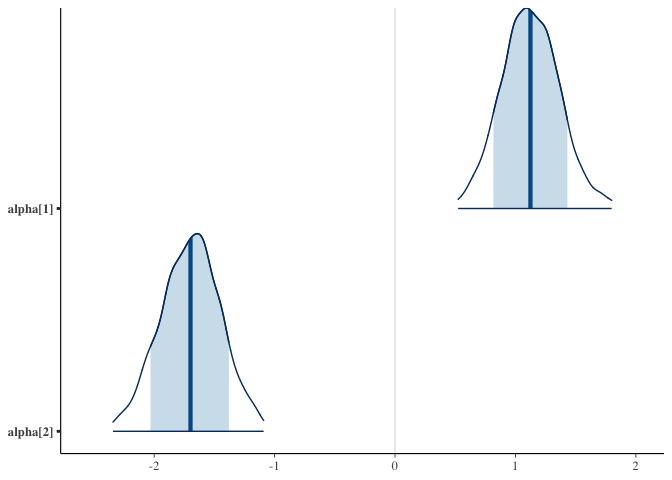
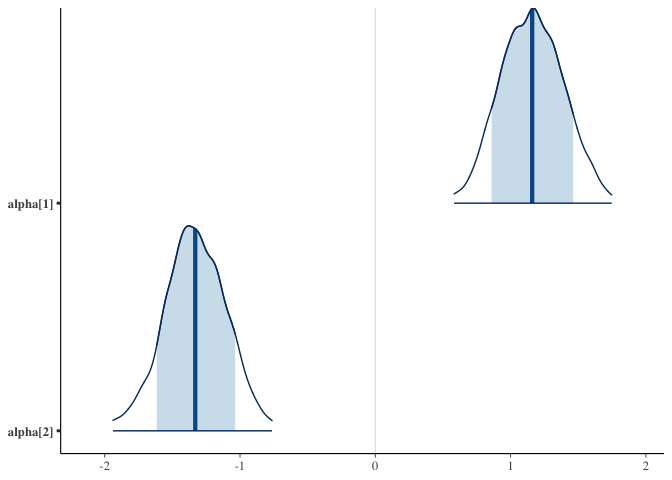
getting pkgdown working

diff --git a/README.md b/README.md
@@ -76,8 +76,8 @@ simple_model <- titanic::age_gender_stan(
     ## 
     ## SAMPLING FOR MODEL 'age_gender_model' NOW (CHAIN 1).
     ## Chain 1: 
-    ## Chain 1: Gradient evaluation took 8.4e-05 seconds
-    ## Chain 1: 1000 transitions using 10 leapfrog steps per transition would take 0.84 seconds.
+    ## Chain 1: Gradient evaluation took 9.4e-05 seconds
+    ## Chain 1: 1000 transitions using 10 leapfrog steps per transition would take 0.94 seconds.
     ## Chain 1: Adjust your expectations accordingly!
     ## Chain 1: 
     ## Chain 1: 
@@ -94,15 +94,15 @@ simple_model <- titanic::age_gender_stan(
     ## Chain 1: Iteration: 1800 / 2000 [ 90%]  (Sampling)
     ## Chain 1: Iteration: 2000 / 2000 [100%]  (Sampling)
     ## Chain 1: 
-    ## Chain 1:  Elapsed Time: 1.36134 seconds (Warm-up)
-    ## Chain 1:                0.564277 seconds (Sampling)
-    ## Chain 1:                1.92562 seconds (Total)
+    ## Chain 1:  Elapsed Time: 1.29221 seconds (Warm-up)
+    ## Chain 1:                0.653079 seconds (Sampling)
+    ## Chain 1:                1.94529 seconds (Total)
     ## Chain 1: 
     ## 
     ## SAMPLING FOR MODEL 'age_gender_model' NOW (CHAIN 2).
     ## Chain 2: 
-    ## Chain 2: Gradient evaluation took 5.2e-05 seconds
-    ## Chain 2: 1000 transitions using 10 leapfrog steps per transition would take 0.52 seconds.
+    ## Chain 2: Gradient evaluation took 5.8e-05 seconds
+    ## Chain 2: 1000 transitions using 10 leapfrog steps per transition would take 0.58 seconds.
     ## Chain 2: Adjust your expectations accordingly!
     ## Chain 2: 
     ## Chain 2: 
@@ -119,15 +119,15 @@ simple_model <- titanic::age_gender_stan(
     ## Chain 2: Iteration: 1800 / 2000 [ 90%]  (Sampling)
     ## Chain 2: Iteration: 2000 / 2000 [100%]  (Sampling)
     ## Chain 2: 
-    ## Chain 2:  Elapsed Time: 1.33221 seconds (Warm-up)
-    ## Chain 2:                0.595502 seconds (Sampling)
-    ## Chain 2:                1.92771 seconds (Total)
+    ## Chain 2:  Elapsed Time: 1.51446 seconds (Warm-up)
+    ## Chain 2:                0.541103 seconds (Sampling)
+    ## Chain 2:                2.05557 seconds (Total)
     ## Chain 2: 
     ## 
     ## SAMPLING FOR MODEL 'age_gender_model' NOW (CHAIN 3).
     ## Chain 3: 
-    ## Chain 3: Gradient evaluation took 5.3e-05 seconds
-    ## Chain 3: 1000 transitions using 10 leapfrog steps per transition would take 0.53 seconds.
+    ## Chain 3: Gradient evaluation took 5.2e-05 seconds
+    ## Chain 3: 1000 transitions using 10 leapfrog steps per transition would take 0.52 seconds.
     ## Chain 3: Adjust your expectations accordingly!
     ## Chain 3: 
     ## Chain 3: 
@@ -144,15 +144,15 @@ simple_model <- titanic::age_gender_stan(
     ## Chain 3: Iteration: 1800 / 2000 [ 90%]  (Sampling)
     ## Chain 3: Iteration: 2000 / 2000 [100%]  (Sampling)
     ## Chain 3: 
-    ## Chain 3:  Elapsed Time: 1.03686 seconds (Warm-up)
-    ## Chain 3:                0.532769 seconds (Sampling)
-    ## Chain 3:                1.56963 seconds (Total)
+    ## Chain 3:  Elapsed Time: 1.20392 seconds (Warm-up)
+    ## Chain 3:                0.551656 seconds (Sampling)
+    ## Chain 3:                1.75558 seconds (Total)
     ## Chain 3: 
     ## 
     ## SAMPLING FOR MODEL 'age_gender_model' NOW (CHAIN 4).
     ## Chain 4: 
-    ## Chain 4: Gradient evaluation took 6.3e-05 seconds
-    ## Chain 4: 1000 transitions using 10 leapfrog steps per transition would take 0.63 seconds.
+    ## Chain 4: Gradient evaluation took 6.2e-05 seconds
+    ## Chain 4: 1000 transitions using 10 leapfrog steps per transition would take 0.62 seconds.
     ## Chain 4: Adjust your expectations accordingly!
     ## Chain 4: 
     ## Chain 4: 
@@ -169,9 +169,9 @@ simple_model <- titanic::age_gender_stan(
     ## Chain 4: Iteration: 1800 / 2000 [ 90%]  (Sampling)
     ## Chain 4: Iteration: 2000 / 2000 [100%]  (Sampling)
     ## Chain 4: 
-    ## Chain 4:  Elapsed Time: 1.51532 seconds (Warm-up)
-    ## Chain 4:                0.555943 seconds (Sampling)
-    ## Chain 4:                2.07126 seconds (Total)
+    ## Chain 4:  Elapsed Time: 1.21723 seconds (Warm-up)
+    ## Chain 4:                0.591349 seconds (Sampling)
+    ## Chain 4:                1.80858 seconds (Total)
     ## Chain 4:
 
 The model estimates an intercept for each `Sex` separately but shares
@@ -187,11 +187,11 @@ print(simple_model, pars=c('alpha','beta'))
     ## post-warmup draws per chain=1000, total post-warmup draws=4000.
     ## 
     ##           mean se_mean   sd  2.5%   25%   50%   75% 97.5% n_eff Rhat
-    ## alpha[1]  1.12    0.01 0.25  0.65  0.96  1.12  1.29  1.62   942    1
-    ## alpha[2] -1.70    0.01 0.25 -2.21 -1.87 -1.69 -1.53 -1.20   979    1
-    ## beta      0.00    0.00 0.01 -0.01  0.00  0.00  0.01  0.02   948    1
+    ## alpha[1]  1.16    0.01 0.23  0.72  1.00  1.16  1.32  1.61   961    1
+    ## alpha[2] -1.33    0.01 0.23 -1.80 -1.48 -1.33 -1.17 -0.89   940    1
+    ## beta     -0.01    0.00 0.01 -0.02 -0.01 -0.01  0.00  0.01   906    1
     ## 
-    ## Samples were drawn using NUTS(diag_e) at Mon Oct  5 18:17:38 2020.
+    ## Samples were drawn using NUTS(diag_e) at Sat Oct 10 12:28:42 2020.
     ## For each parameter, n_eff is a crude measure of effective sample size,
     ## and Rhat is the potential scale reduction factor on split chains (at 
     ## convergence, Rhat=1).
@@ -234,9 +234,9 @@ and for the Kaggle challenge we care about accuracy.
 mean(apply(samp$y_new, 2, median) %>% round(0) == train[test_idx,'Survived'])
 ```
 
-    ## [1] 0.6927374
+    ## [1] 0.7932961
 
-Accuracy against a test set is about 0.6927374 percent. There seems to
+Accuracy against a test set is about 0.7932961 percent. There seems to
 be more to the story we need to consider to improve accuracy to a
 reasonable level.
 
@@ -274,15 +274,15 @@ predict_model <- titanic::age_gender_stan(age=train[train_idx,'Age'],
     ## Chain 1: Iteration: 1800 / 2000 [ 90%]  (Sampling)
     ## Chain 1: Iteration: 2000 / 2000 [100%]  (Sampling)
     ## Chain 1: 
-    ## Chain 1:  Elapsed Time: 1.26501 seconds (Warm-up)
-    ## Chain 1:                0.580057 seconds (Sampling)
-    ## Chain 1:                1.84507 seconds (Total)
+    ## Chain 1:  Elapsed Time: 1.34865 seconds (Warm-up)
+    ## Chain 1:                0.664375 seconds (Sampling)
+    ## Chain 1:                2.01302 seconds (Total)
     ## Chain 1: 
     ## 
     ## SAMPLING FOR MODEL 'age_gender_model' NOW (CHAIN 2).
     ## Chain 2: 
-    ## Chain 2: Gradient evaluation took 5.2e-05 seconds
-    ## Chain 2: 1000 transitions using 10 leapfrog steps per transition would take 0.52 seconds.
+    ## Chain 2: Gradient evaluation took 5.3e-05 seconds
+    ## Chain 2: 1000 transitions using 10 leapfrog steps per transition would take 0.53 seconds.
     ## Chain 2: Adjust your expectations accordingly!
     ## Chain 2: 
     ## Chain 2: 
@@ -299,15 +299,15 @@ predict_model <- titanic::age_gender_stan(age=train[train_idx,'Age'],
     ## Chain 2: Iteration: 1800 / 2000 [ 90%]  (Sampling)
     ## Chain 2: Iteration: 2000 / 2000 [100%]  (Sampling)
     ## Chain 2: 
-    ## Chain 2:  Elapsed Time: 1.2227 seconds (Warm-up)
-    ## Chain 2:                0.541836 seconds (Sampling)
-    ## Chain 2:                1.76454 seconds (Total)
+    ## Chain 2:  Elapsed Time: 1.32264 seconds (Warm-up)
+    ## Chain 2:                0.585447 seconds (Sampling)
+    ## Chain 2:                1.90809 seconds (Total)
     ## Chain 2: 
     ## 
     ## SAMPLING FOR MODEL 'age_gender_model' NOW (CHAIN 3).
     ## Chain 3: 
-    ## Chain 3: Gradient evaluation took 5.5e-05 seconds
-    ## Chain 3: 1000 transitions using 10 leapfrog steps per transition would take 0.55 seconds.
+    ## Chain 3: Gradient evaluation took 5.3e-05 seconds
+    ## Chain 3: 1000 transitions using 10 leapfrog steps per transition would take 0.53 seconds.
     ## Chain 3: Adjust your expectations accordingly!
     ## Chain 3: 
     ## Chain 3: 
@@ -324,15 +324,15 @@ predict_model <- titanic::age_gender_stan(age=train[train_idx,'Age'],
     ## Chain 3: Iteration: 1800 / 2000 [ 90%]  (Sampling)
     ## Chain 3: Iteration: 2000 / 2000 [100%]  (Sampling)
     ## Chain 3: 
-    ## Chain 3:  Elapsed Time: 1.24263 seconds (Warm-up)
-    ## Chain 3:                0.626871 seconds (Sampling)
-    ## Chain 3:                1.8695 seconds (Total)
+    ## Chain 3:  Elapsed Time: 1.3435 seconds (Warm-up)
+    ## Chain 3:                0.647132 seconds (Sampling)
+    ## Chain 3:                1.99063 seconds (Total)
     ## Chain 3: 
     ## 
     ## SAMPLING FOR MODEL 'age_gender_model' NOW (CHAIN 4).
     ## Chain 4: 
-    ## Chain 4: Gradient evaluation took 6.2e-05 seconds
-    ## Chain 4: 1000 transitions using 10 leapfrog steps per transition would take 0.62 seconds.
+    ## Chain 4: Gradient evaluation took 6.1e-05 seconds
+    ## Chain 4: 1000 transitions using 10 leapfrog steps per transition would take 0.61 seconds.
     ## Chain 4: Adjust your expectations accordingly!
     ## Chain 4: 
     ## Chain 4: 
@@ -349,9 +349,9 @@ predict_model <- titanic::age_gender_stan(age=train[train_idx,'Age'],
     ## Chain 4: Iteration: 1800 / 2000 [ 90%]  (Sampling)
     ## Chain 4: Iteration: 2000 / 2000 [100%]  (Sampling)
     ## Chain 4: 
-    ## Chain 4:  Elapsed Time: 1.35837 seconds (Warm-up)
-    ## Chain 4:                0.551339 seconds (Sampling)
-    ## Chain 4:                1.90971 seconds (Total)
+    ## Chain 4:  Elapsed Time: 1.31074 seconds (Warm-up)
+    ## Chain 4:                0.612178 seconds (Sampling)
+    ## Chain 4:                1.92292 seconds (Total)
     ## Chain 4:
 
 Export the predictions and push to Kaggle.
@@ -385,8 +385,8 @@ hier_mod <- titanic::age_gender_hier_stan(age=train[train_idx,'Age'],
     ## 
     ## SAMPLING FOR MODEL 'age_gender_hier_model' NOW (CHAIN 1).
     ## Chain 1: 
-    ## Chain 1: Gradient evaluation took 8.7e-05 seconds
-    ## Chain 1: 1000 transitions using 10 leapfrog steps per transition would take 0.87 seconds.
+    ## Chain 1: Gradient evaluation took 8.3e-05 seconds
+    ## Chain 1: 1000 transitions using 10 leapfrog steps per transition would take 0.83 seconds.
     ## Chain 1: Adjust your expectations accordingly!
     ## Chain 1: 
     ## Chain 1: 
@@ -403,15 +403,15 @@ hier_mod <- titanic::age_gender_hier_stan(age=train[train_idx,'Age'],
     ## Chain 1: Iteration: 1800 / 2000 [ 90%]  (Sampling)
     ## Chain 1: Iteration: 2000 / 2000 [100%]  (Sampling)
     ## Chain 1: 
-    ## Chain 1:  Elapsed Time: 4.08011 seconds (Warm-up)
-    ## Chain 1:                1.29445 seconds (Sampling)
-    ## Chain 1:                5.37456 seconds (Total)
+    ## Chain 1:  Elapsed Time: 4.82443 seconds (Warm-up)
+    ## Chain 1:                1.26699 seconds (Sampling)
+    ## Chain 1:                6.09142 seconds (Total)
     ## Chain 1: 
     ## 
     ## SAMPLING FOR MODEL 'age_gender_hier_model' NOW (CHAIN 2).
     ## Chain 2: 
-    ## Chain 2: Gradient evaluation took 8e-05 seconds
-    ## Chain 2: 1000 transitions using 10 leapfrog steps per transition would take 0.8 seconds.
+    ## Chain 2: Gradient evaluation took 8.2e-05 seconds
+    ## Chain 2: 1000 transitions using 10 leapfrog steps per transition would take 0.82 seconds.
     ## Chain 2: Adjust your expectations accordingly!
     ## Chain 2: 
     ## Chain 2: 
@@ -428,15 +428,15 @@ hier_mod <- titanic::age_gender_hier_stan(age=train[train_idx,'Age'],
     ## Chain 2: Iteration: 1800 / 2000 [ 90%]  (Sampling)
     ## Chain 2: Iteration: 2000 / 2000 [100%]  (Sampling)
     ## Chain 2: 
-    ## Chain 2:  Elapsed Time: 4.81604 seconds (Warm-up)
-    ## Chain 2:                1.45199 seconds (Sampling)
-    ## Chain 2:                6.26803 seconds (Total)
+    ## Chain 2:  Elapsed Time: 4.47776 seconds (Warm-up)
+    ## Chain 2:                1.21826 seconds (Sampling)
+    ## Chain 2:                5.69603 seconds (Total)
     ## Chain 2: 
     ## 
     ## SAMPLING FOR MODEL 'age_gender_hier_model' NOW (CHAIN 3).
     ## Chain 3: 
-    ## Chain 3: Gradient evaluation took 7.4e-05 seconds
-    ## Chain 3: 1000 transitions using 10 leapfrog steps per transition would take 0.74 seconds.
+    ## Chain 3: Gradient evaluation took 7.5e-05 seconds
+    ## Chain 3: 1000 transitions using 10 leapfrog steps per transition would take 0.75 seconds.
     ## Chain 3: Adjust your expectations accordingly!
     ## Chain 3: 
     ## Chain 3: 
@@ -453,9 +453,9 @@ hier_mod <- titanic::age_gender_hier_stan(age=train[train_idx,'Age'],
     ## Chain 3: Iteration: 1800 / 2000 [ 90%]  (Sampling)
     ## Chain 3: Iteration: 2000 / 2000 [100%]  (Sampling)
     ## Chain 3: 
-    ## Chain 3:  Elapsed Time: 4.02299 seconds (Warm-up)
-    ## Chain 3:                1.41136 seconds (Sampling)
-    ## Chain 3:                5.43436 seconds (Total)
+    ## Chain 3:  Elapsed Time: 4.14289 seconds (Warm-up)
+    ## Chain 3:                1.33875 seconds (Sampling)
+    ## Chain 3:                5.48163 seconds (Total)
     ## Chain 3: 
     ## 
     ## SAMPLING FOR MODEL 'age_gender_hier_model' NOW (CHAIN 4).
@@ -478,12 +478,12 @@ hier_mod <- titanic::age_gender_hier_stan(age=train[train_idx,'Age'],
     ## Chain 4: Iteration: 1800 / 2000 [ 90%]  (Sampling)
     ## Chain 4: Iteration: 2000 / 2000 [100%]  (Sampling)
     ## Chain 4: 
-    ## Chain 4:  Elapsed Time: 4.75842 seconds (Warm-up)
-    ## Chain 4:                1.35479 seconds (Sampling)
-    ## Chain 4:                6.11321 seconds (Total)
+    ## Chain 4:  Elapsed Time: 4.51489 seconds (Warm-up)
+    ## Chain 4:                1.34772 seconds (Sampling)
+    ## Chain 4:                5.86261 seconds (Total)
     ## Chain 4:
 
-    ## Warning: There were 2 divergent transitions after warmup. See
+    ## Warning: There were 4 divergent transitions after warmup. See
     ## http://mc-stan.org/misc/warnings.html#divergent-transitions-after-warmup
     ## to find out why this is a problem and how to eliminate them.
 
@@ -499,12 +499,12 @@ print(hier_mod, pars=c("alpha","beta"))
     ## post-warmup draws per chain=1000, total post-warmup draws=4000.
     ## 
     ##           mean se_mean   sd  2.5%   25%   50%   75% 97.5% n_eff Rhat
-    ## alpha[1]  0.37    0.01 0.35 -0.32  0.14  0.37  0.61  1.08  2078    1
-    ## alpha[2] -1.18    0.01 0.30 -1.77 -1.38 -1.19 -0.98 -0.56  2150    1
-    ## beta[1]   0.03    0.00 0.01  0.01  0.02  0.03  0.04  0.06  1898    1
-    ## beta[2]  -0.02    0.00 0.01 -0.04 -0.02 -0.02 -0.01  0.00  2104    1
+    ## alpha[1]  0.47    0.01 0.32 -0.17  0.25  0.47  0.69  1.10  1982    1
+    ## alpha[2] -0.80    0.01 0.29 -1.37 -1.00 -0.80 -0.60 -0.22  1878    1
+    ## beta[1]   0.02    0.00 0.01  0.00  0.01  0.02  0.03  0.04  2135    1
+    ## beta[2]  -0.02    0.00 0.01 -0.04 -0.03 -0.02 -0.02 -0.01  1895    1
     ## 
-    ## Samples were drawn using NUTS(diag_e) at Mon Oct  5 18:18:26 2020.
+    ## Samples were drawn using NUTS(diag_e) at Sat Oct 10 12:29:30 2020.
     ## For each parameter, n_eff is a crude measure of effective sample size,
     ## and Rhat is the potential scale reduction factor on split chains (at 
     ## convergence, Rhat=1).
@@ -515,7 +515,7 @@ Checking the accuracy against my test partition.
 mean(apply(hier_fit$y_new, 2, median) %>% round(0) == train[test_idx,'Survived'])
 ```
 
-    ## [1] 0.6927374
+    ## [1] 0.7932961
 
 The accuracy seems to have barely improved…
 
@@ -533,8 +533,8 @@ hier_predict <- titanic::age_gender_hier_stan(age=train[train_idx,'Age'],
     ## 
     ## SAMPLING FOR MODEL 'age_gender_hier_model' NOW (CHAIN 1).
     ## Chain 1: 
-    ## Chain 1: Gradient evaluation took 8.7e-05 seconds
-    ## Chain 1: 1000 transitions using 10 leapfrog steps per transition would take 0.87 seconds.
+    ## Chain 1: Gradient evaluation took 8.9e-05 seconds
+    ## Chain 1: 1000 transitions using 10 leapfrog steps per transition would take 0.89 seconds.
     ## Chain 1: Adjust your expectations accordingly!
     ## Chain 1: 
     ## Chain 1: 
@@ -551,15 +551,15 @@ hier_predict <- titanic::age_gender_hier_stan(age=train[train_idx,'Age'],
     ## Chain 1: Iteration: 1800 / 2000 [ 90%]  (Sampling)
     ## Chain 1: Iteration: 2000 / 2000 [100%]  (Sampling)
     ## Chain 1: 
-    ## Chain 1:  Elapsed Time: 4.30518 seconds (Warm-up)
-    ## Chain 1:                1.31293 seconds (Sampling)
-    ## Chain 1:                5.6181 seconds (Total)
+    ## Chain 1:  Elapsed Time: 4.66542 seconds (Warm-up)
+    ## Chain 1:                1.45296 seconds (Sampling)
+    ## Chain 1:                6.11838 seconds (Total)
     ## Chain 1: 
     ## 
     ## SAMPLING FOR MODEL 'age_gender_hier_model' NOW (CHAIN 2).
     ## Chain 2: 
-    ## Chain 2: Gradient evaluation took 7.9e-05 seconds
-    ## Chain 2: 1000 transitions using 10 leapfrog steps per transition would take 0.79 seconds.
+    ## Chain 2: Gradient evaluation took 8.1e-05 seconds
+    ## Chain 2: 1000 transitions using 10 leapfrog steps per transition would take 0.81 seconds.
     ## Chain 2: Adjust your expectations accordingly!
     ## Chain 2: 
     ## Chain 2: 
@@ -576,15 +576,15 @@ hier_predict <- titanic::age_gender_hier_stan(age=train[train_idx,'Age'],
     ## Chain 2: Iteration: 1800 / 2000 [ 90%]  (Sampling)
     ## Chain 2: Iteration: 2000 / 2000 [100%]  (Sampling)
     ## Chain 2: 
-    ## Chain 2:  Elapsed Time: 4.6623 seconds (Warm-up)
-    ## Chain 2:                1.4709 seconds (Sampling)
-    ## Chain 2:                6.1332 seconds (Total)
+    ## Chain 2:  Elapsed Time: 4.94703 seconds (Warm-up)
+    ## Chain 2:                1.48939 seconds (Sampling)
+    ## Chain 2:                6.43642 seconds (Total)
     ## Chain 2: 
     ## 
     ## SAMPLING FOR MODEL 'age_gender_hier_model' NOW (CHAIN 3).
     ## Chain 3: 
-    ## Chain 3: Gradient evaluation took 7.3e-05 seconds
-    ## Chain 3: 1000 transitions using 10 leapfrog steps per transition would take 0.73 seconds.
+    ## Chain 3: Gradient evaluation took 7.5e-05 seconds
+    ## Chain 3: 1000 transitions using 10 leapfrog steps per transition would take 0.75 seconds.
     ## Chain 3: Adjust your expectations accordingly!
     ## Chain 3: 
     ## Chain 3: 
@@ -601,15 +601,15 @@ hier_predict <- titanic::age_gender_hier_stan(age=train[train_idx,'Age'],
     ## Chain 3: Iteration: 1800 / 2000 [ 90%]  (Sampling)
     ## Chain 3: Iteration: 2000 / 2000 [100%]  (Sampling)
     ## Chain 3: 
-    ## Chain 3:  Elapsed Time: 4.61954 seconds (Warm-up)
-    ## Chain 3:                1.3225 seconds (Sampling)
-    ## Chain 3:                5.94203 seconds (Total)
+    ## Chain 3:  Elapsed Time: 5.15218 seconds (Warm-up)
+    ## Chain 3:                1.46405 seconds (Sampling)
+    ## Chain 3:                6.61623 seconds (Total)
     ## Chain 3: 
     ## 
     ## SAMPLING FOR MODEL 'age_gender_hier_model' NOW (CHAIN 4).
     ## Chain 4: 
-    ## Chain 4: Gradient evaluation took 7.5e-05 seconds
-    ## Chain 4: 1000 transitions using 10 leapfrog steps per transition would take 0.75 seconds.
+    ## Chain 4: Gradient evaluation took 7.8e-05 seconds
+    ## Chain 4: 1000 transitions using 10 leapfrog steps per transition would take 0.78 seconds.
     ## Chain 4: Adjust your expectations accordingly!
     ## Chain 4: 
     ## Chain 4: 
@@ -626,9 +626,9 @@ hier_predict <- titanic::age_gender_hier_stan(age=train[train_idx,'Age'],
     ## Chain 4: Iteration: 1800 / 2000 [ 90%]  (Sampling)
     ## Chain 4: Iteration: 2000 / 2000 [100%]  (Sampling)
     ## Chain 4: 
-    ## Chain 4:  Elapsed Time: 4.47487 seconds (Warm-up)
-    ## Chain 4:                1.51 seconds (Sampling)
-    ## Chain 4:                5.98487 seconds (Total)
+    ## Chain 4:  Elapsed Time: 3.8485 seconds (Warm-up)
+    ## Chain 4:                1.6434 seconds (Sampling)
+    ## Chain 4:                5.4919 seconds (Total)
     ## Chain 4:
 
 Export the predictions and push to Kaggle.
